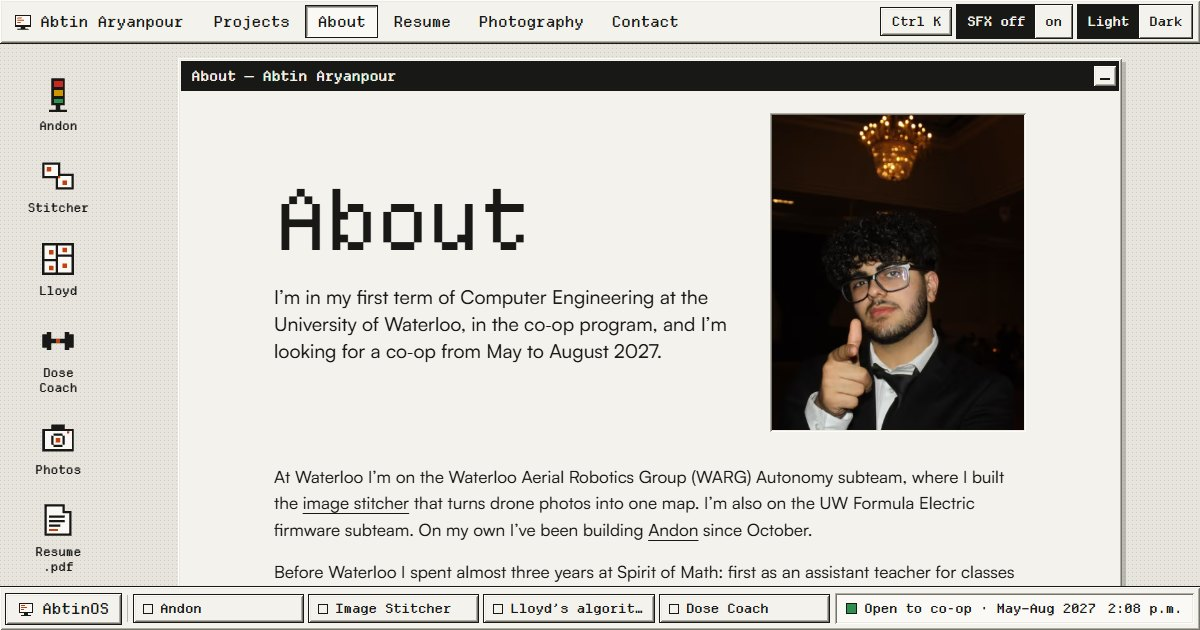
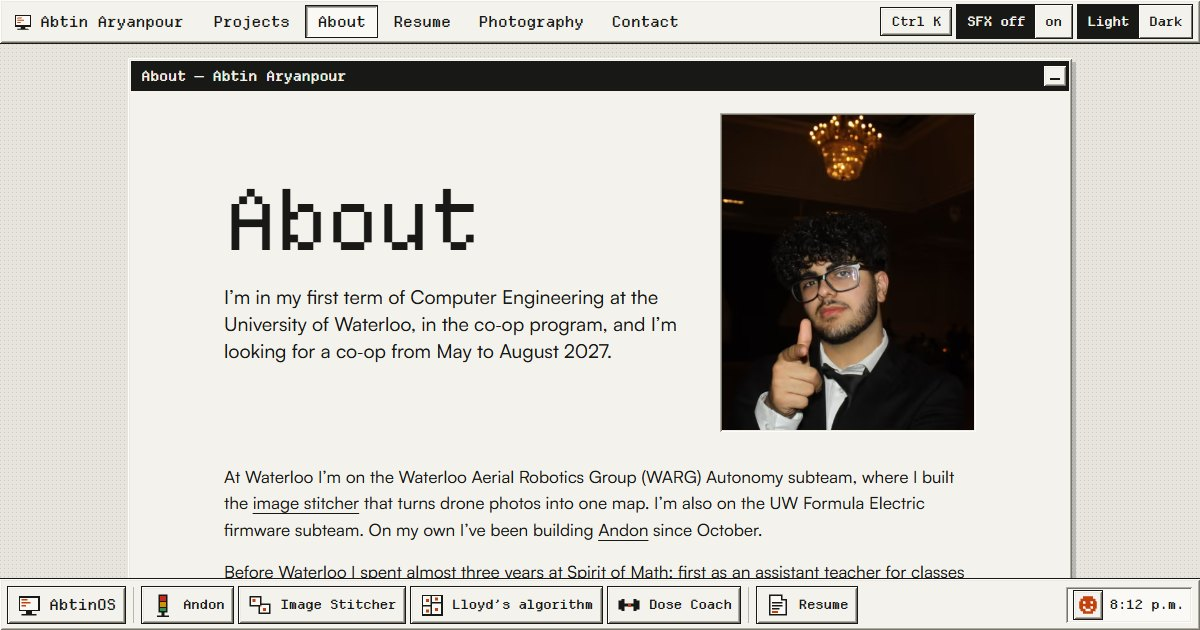
Refine the workstation taskbar and page layout

diff --git a/tests/site.spec.ts b/tests/site.spec.ts
@@ -47,7 +47,7 @@ for (const path of pages) {
   });
 }
 
-test('desktop shortcuts restore and focus Featured windows', async ({ page }) => {
+test('taskbar tabs restore and focus Featured windows', async ({ page }) => {
   await page.emulateMedia({ reducedMotion: 'reduce' });
   await page.setViewportSize({ width: 1440, height: 900 });
   await page.goto('/projects/');
@@ -62,6 +62,25 @@ test('desktop shortcuts restore and focus Featured windows', async ({ page }) =>
   await expect(toggle).toHaveAttribute('aria-expanded', 'true');
   await expect(toggle).toBeFocused();
   await expect(tab).toHaveAttribute('aria-current', 'location');
+});
+
+test('the narrow taskbar fits its shortcuts and clock and the pixel face toggles with the keyboard', async ({ page }) => {
+  await page.setViewportSize({ width: 320, height: 900 });
+  await page.clock.setFixedTime(new Date('2026-01-01T17:59:00Z'));
+  await page.goto('/');
+  const bar = page.locator('.taskbar');
+  const clock = bar.locator('time');
+  await expect(clock).toHaveText(/12:59/);
+  await expect(bar.getByRole('link', { name: 'Photos' })).toHaveCount(0);
+  await expect(bar.getByRole('link', { name: 'Resume PDF' })).toHaveAttribute('href', /\.pdf$/);
+  const face = bar.getByRole('button', { name: 'Surprise the pixel face' });
+  await expect(face).toHaveAttribute('aria-pressed', 'false');
+  await face.press('Space');
+  await expect(face).toHaveAttribute('aria-pressed', 'true');
+  await expect(face.locator('.gasp')).toBeVisible();
+  await face.press('Space');
+  await expect(face.locator('.smile')).toBeVisible();
+  expect(await bar.evaluate((el) => el.scrollWidth)).toBeLessThanOrEqual(320);
 });
 
 test('the desktop and Featured projects are readable without JavaScript', async ({ browser }) => {

diff --git a/src/scripts/os.ts b/src/scripts/os.ts
@@ -28,7 +28,7 @@ function sfx(kind: keyof typeof SFX) {
 }
 const paintSfx = () => $$('[data-sfx-toggle]').forEach((b) => b.setAttribute('aria-pressed', String(sfxOn)));
 paintSfx();
-const pressable = 'button, .btn, .icon-link';
+const pressable = 'button, .btn';
 document.addEventListener('pointerdown', (e) => { if ((e.target as Element).closest(pressable)) sfx('press'); });
 document.addEventListener('pointerup', (e) => { if ((e.target as Element).closest(pressable)) sfx('release'); });
 
@@ -188,7 +188,15 @@ sm?.addEventListener('keydown', (e) => {
   if (e.key === 'ArrowUp') { items[(i - 1 + items.length) % items.length].focus(); e.preventDefault(); }
 });
 
-/* ---------- clock: Waterloo time ---------- */
+/* ---------- system tray ---------- */
+const trayFace = document.querySelector<HTMLButtonElement>('[data-tray-face]');
+if (trayFace) {
+  trayFace.addEventListener('click', () => {
+    trayFace.setAttribute('aria-pressed', String(trayFace.getAttribute('aria-pressed') !== 'true'));
+  });
+  trayFace.hidden = false;
+}
+
 const clock = document.querySelector('[data-time]');
 if (clock) {
   const fmt = new Intl.DateTimeFormat('en-CA', { hour: 'numeric', minute: '2-digit', timeZone: 'America/Toronto' });

diff --git a/src/styles/global.css b/src/styles/global.css
@@ -34,6 +34,7 @@
 
   --edge: 16px;
   --gap: 20px;
+  --taskbar-height: 52px;
   --section: var(--s7); --group: var(--s6); --page-top: var(--s6); --page-end: var(--s7);
   --s1: 4px; --s2: 8px; --s3: 12px; --s4: 16px; --s5: 24px; --s6: 32px; --s7: 48px; --s8: 64px; --s9: 96px; --s10: 144px;
 
@@ -55,14 +56,14 @@
 
 /* ---------- base ---------- */
 *, *::before, *::after { box-sizing: border-box; }
-html { -webkit-text-size-adjust: 100%; scroll-padding-top: 64px; scroll-padding-bottom: 56px; background: var(--desk); }
+html { -webkit-text-size-adjust: 100%; scroll-padding-top: 64px; scroll-padding-bottom: calc(var(--taskbar-height) + 12px); background: var(--desk); }
 body {
   margin: 0; min-height: 100svh;
   background: var(--desk) var(--wall) repeat;
   color: var(--fg);
   font: 450 17px/1.55 var(--text);
   font-feature-settings: "kern", "liga";
-  padding-bottom: 48px;
+  padding-bottom: calc(var(--taskbar-height) + 4px);
 }
 ::selection { background: var(--accent); color: var(--on-accent); }
 h1, h2, h3, h4 { margin: 0; text-wrap: balance; font-weight: 400; }
